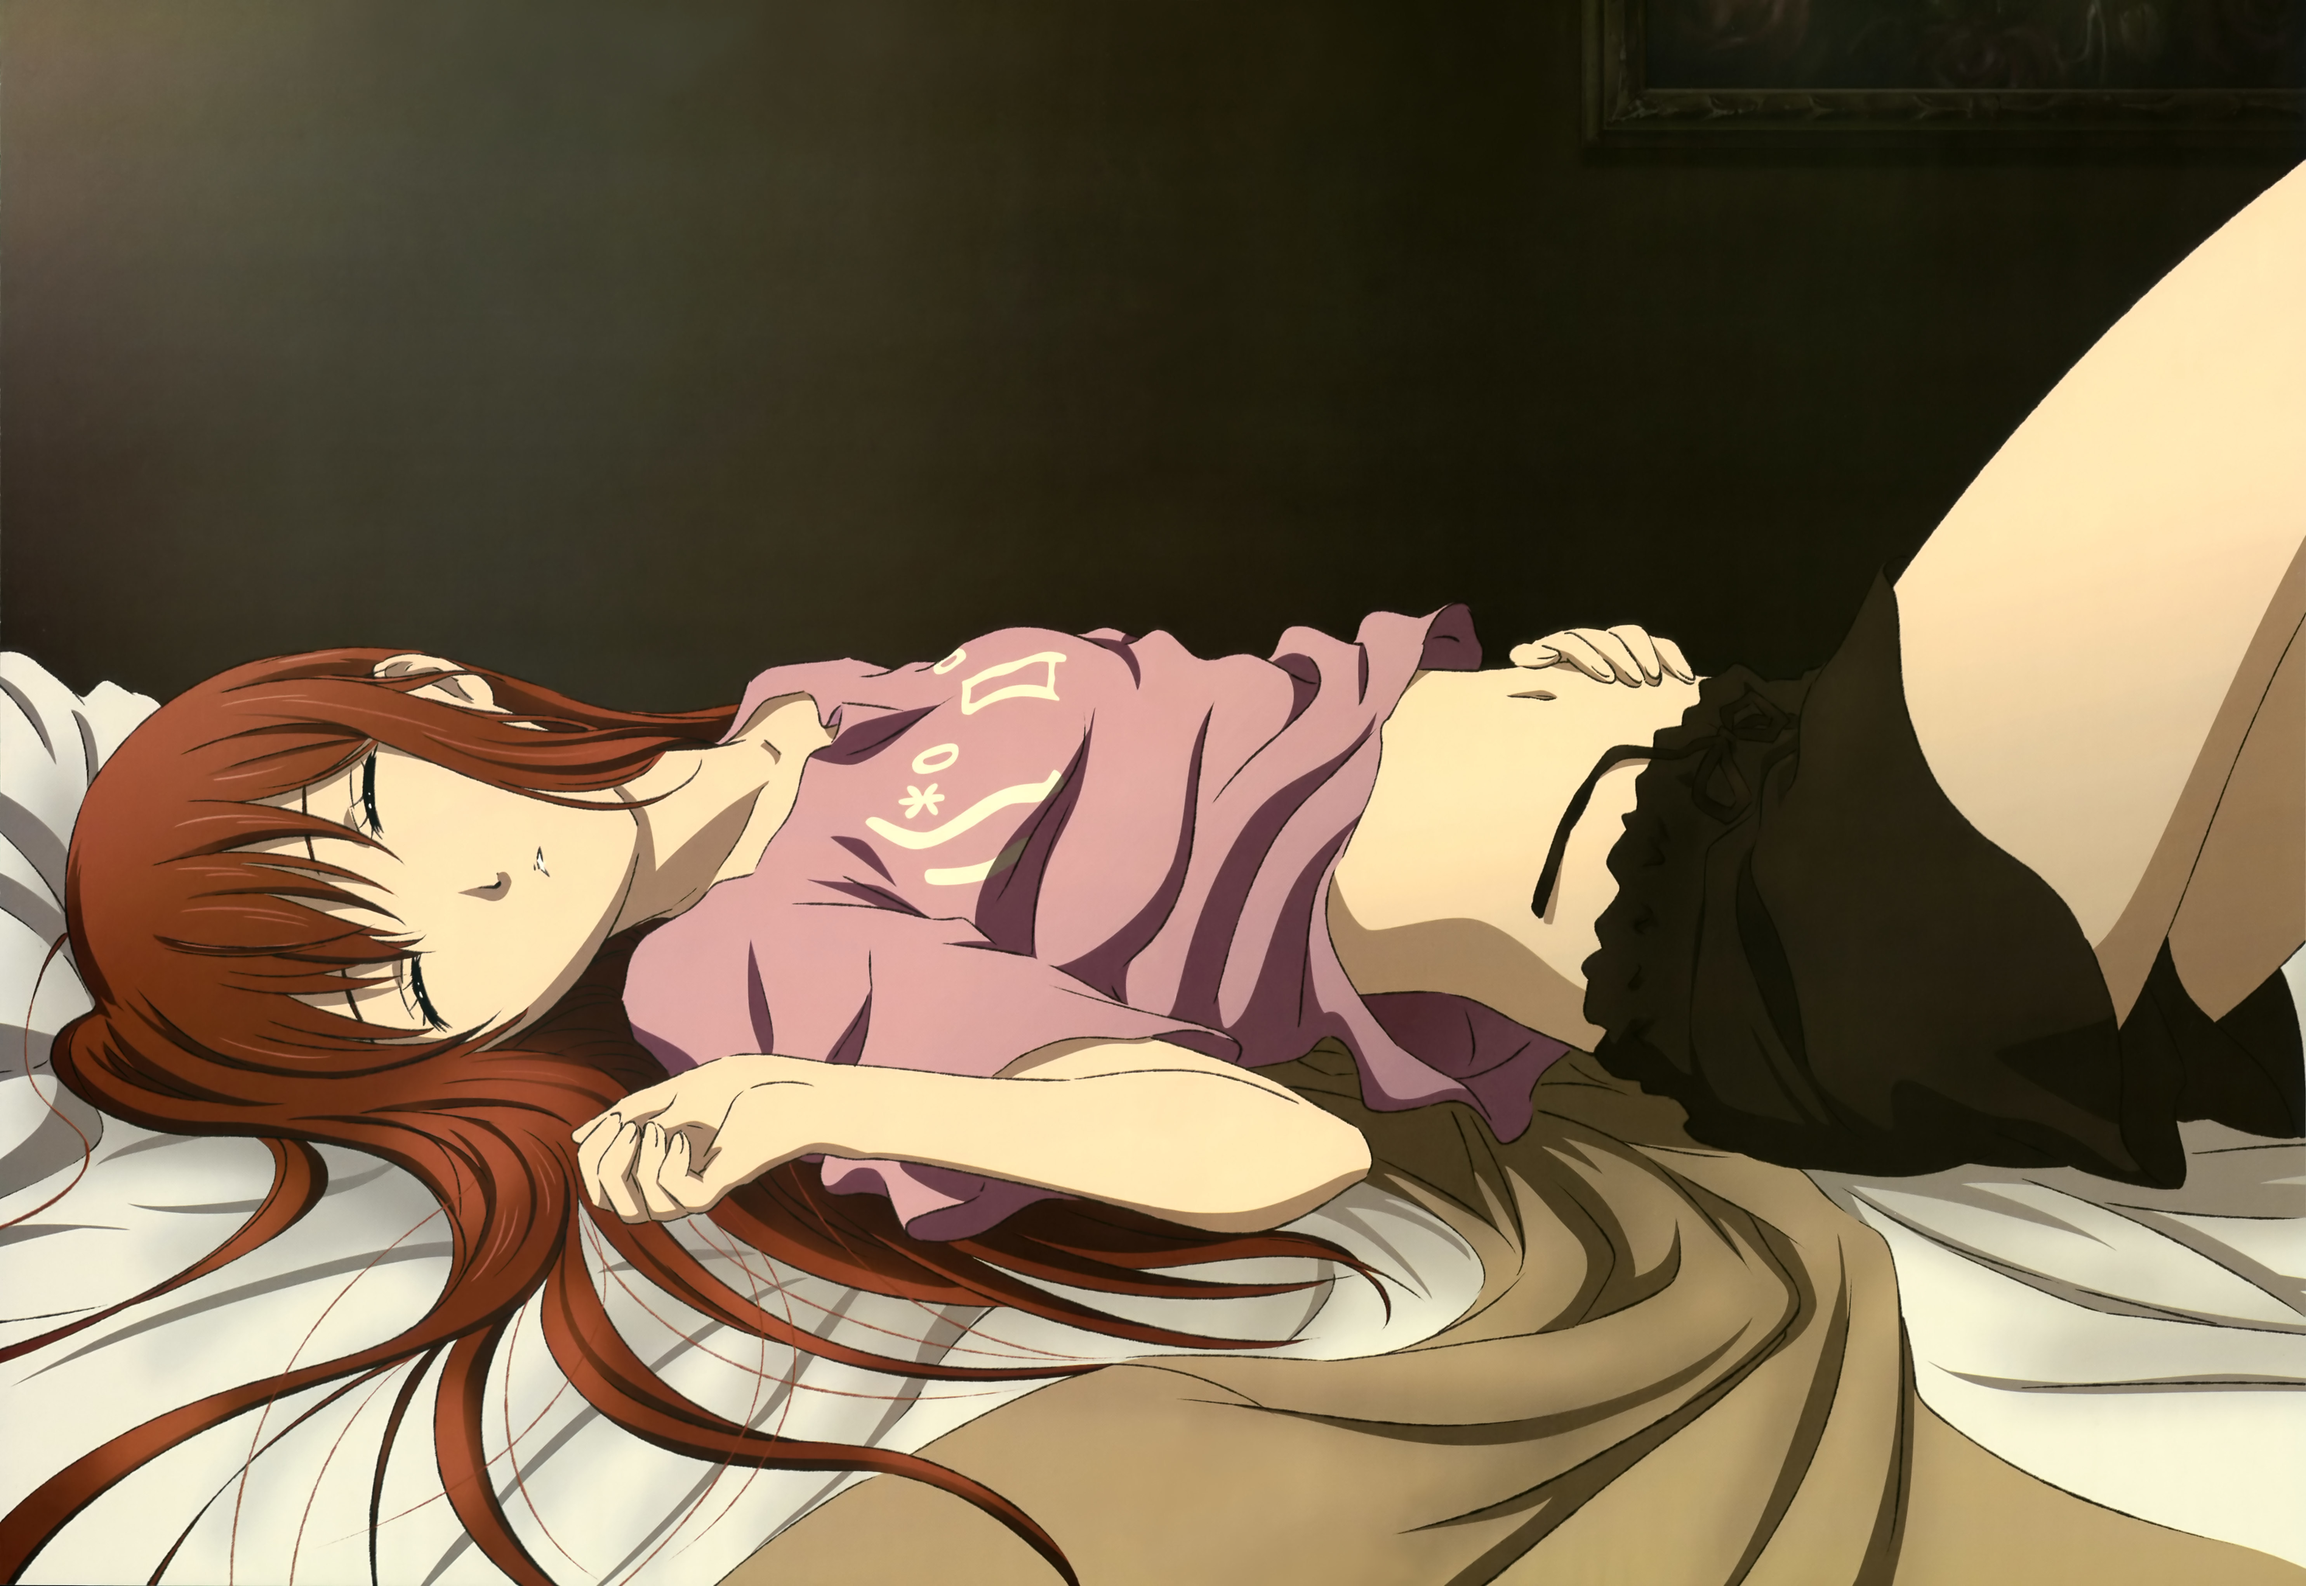
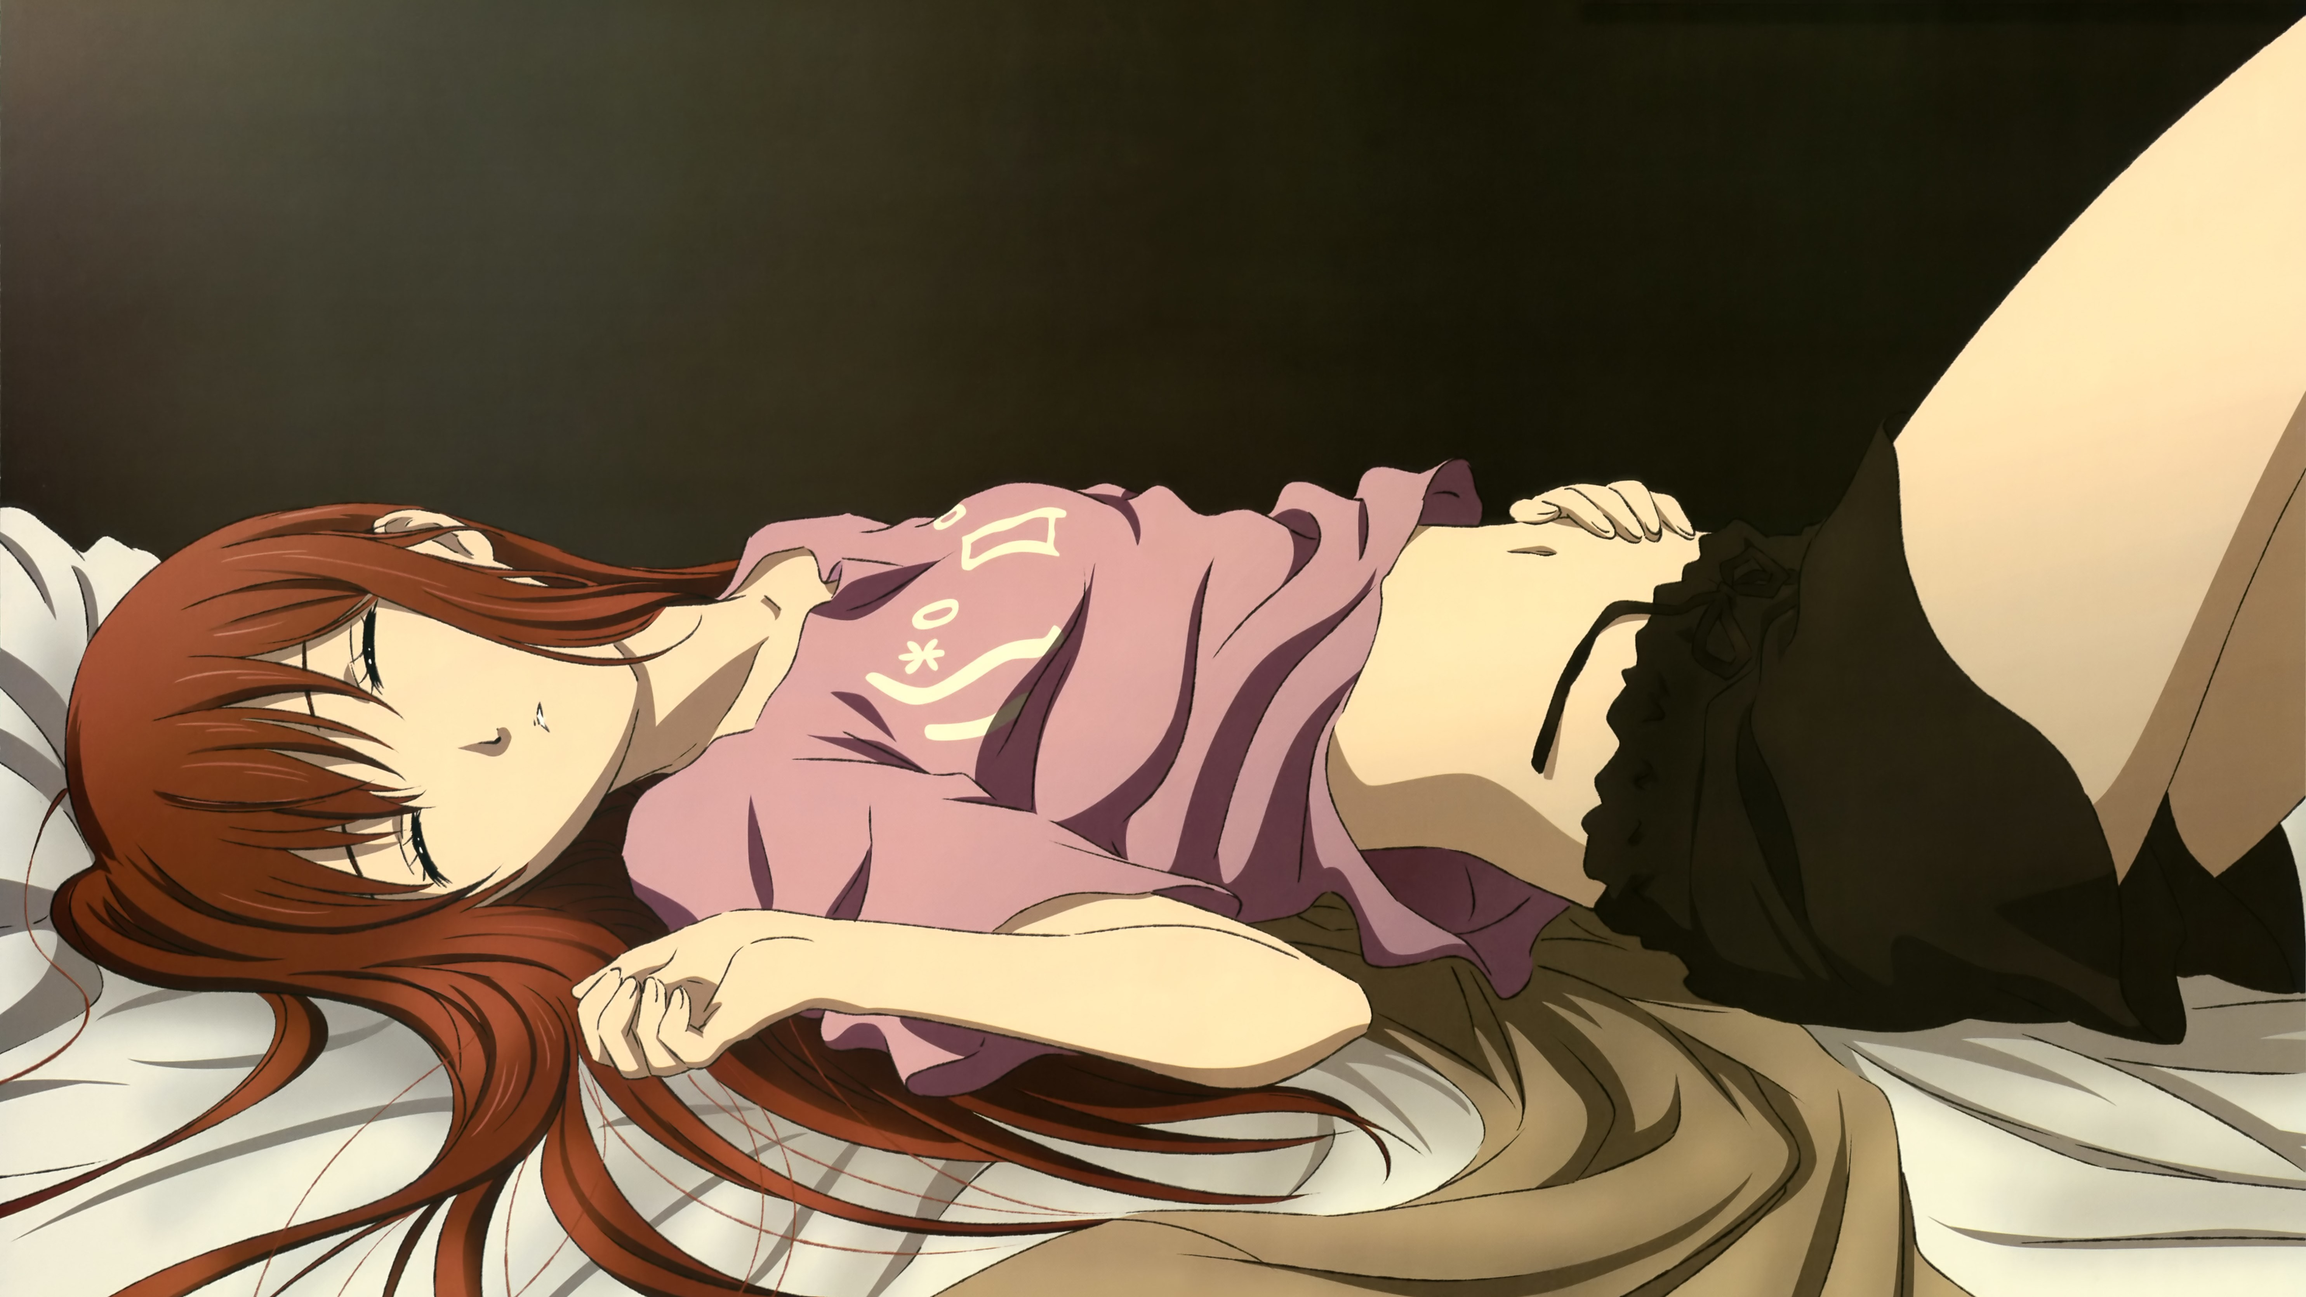
att test
.

diff --git a/styles/steins-gate-style.css b/styles/steins-gate-style.css
@@ -309,8 +309,10 @@ div#wallpapers-container {
   margin: 0 auto;
   flex-direction: row;
   justify-content: space-between;
+  height: 60vh;
+  max-width: 784px;
+  width: 55vw;
   height: 50vh;
-  width: 45vw;
   box-shadow: 5px 10px 40px black;
   border-radius: 10px;
 }
@@ -345,7 +347,8 @@ div.buttons:hover {
 div.images {
   display: flex;
   position: absolute;
-  width: 45vw;
+  width: 55vw;
+  max-width: 784px;
   height: 50vh;
   border-radius: 10px;
   overflow: hidden;
@@ -361,7 +364,8 @@ div.images {
 
 div.images img {
   border-radius: 10px;
-  width: 45vw;
+  width: 55vw;
+  max-width: 784px;
   height: 50vh;
 }
 
@@ -373,6 +377,21 @@ div.images img {
   "image image image"
   "image image image"
   "image image image";
+  }
+
+  div#wallpapers-container {
+    height: 45vh;
+    min-width: 684px;
+  }
+
+  div.images{
+    height: 45vh;
+    min-width: 684px;
+  }
+
+  div.images img{
+    height: 45vh;
+    min-width: 684px;
   }
 }
 
@@ -390,6 +409,21 @@ div.images img {
    "image image"
    "image image"
    "image image";
+  }
+
+  div#wallpapers-container {
+    height: 38vh;
+    min-width: 584px;
+  }
+
+  div.images{
+    height: 38vh;
+    min-width: 584px;
+  }
+
+  div.images img{
+    height: 38vh;
+    min-width: 584px;
   }
 }
 
@@ -500,4 +534,32 @@ div.images img {
   "image"
   "image";
 }
+ 
+ div#wallpapers-container {
+  height: 27vh;
+  
+
+  width: 70vw;
+  min-width: 0px;
+  max-width: 550px;
+ }
+
+ div.images{
+  height: 27vh;
+  
+
+  width: 70vw;
+  min-width: 0px;
+  max-width: 550px;
+ }
+
+ div.images img{
+  height: 27vh;
+
+
+  width: 70vw;
+  min-width: 0px;
+  max-width: 550px;
+ }
+
 }

diff --git a/index.html b/index.html
@@ -123,7 +123,7 @@
 
     <section id="wallpapers">
 
-      <h1 class="titles">wallpapers</h1>
+      <h1 class="titles">Wallpapers</h1>
 
       <div id="wallpapers-container">
 
